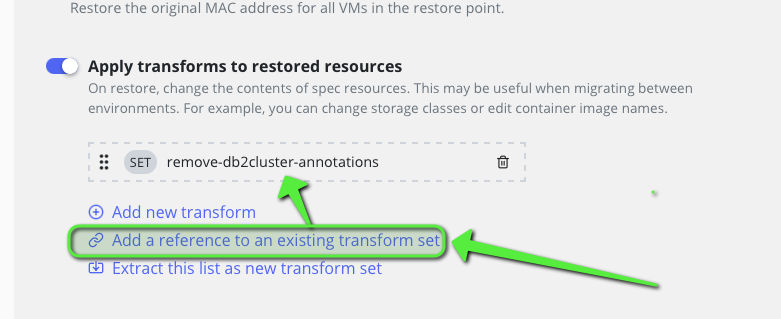
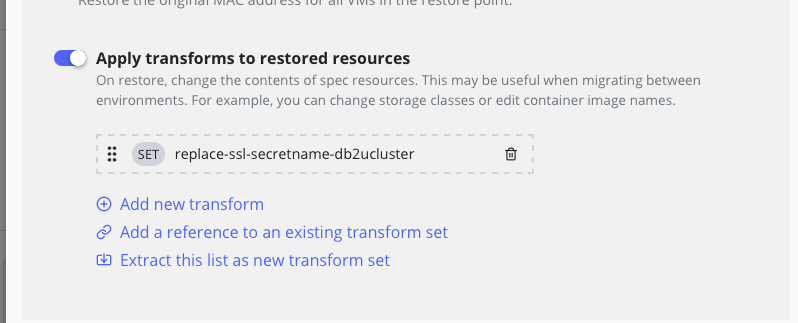
replace the ssl secret for db2ucluster

diff --git a/maximo/manage/db2u/readme.md b/maximo/manage/db2u/readme.md
@@ -82,9 +82,8 @@ While this process work a simpler approach can be taken :
 
 ## With the kasten UI 
 
-1. review edit and apply the transformset `replace-ssl-secretname-db2ucluster.yaml`. 
-You need to provide the name of the secret that will be used to build certificate used by the manage clients.
-It's a secret with 3 entry : ca.crt, tls.key, tls.pem.
+1. review edit and create the transformset `replace-ssl-secretname-db2ucluster.yaml`. 
+You need to provide the name of the secret that will be used to build certificate used by the manage clients. It's a secret with 3 entries : ca.crt, tls.crt, tls.key.
 
 ```
 oc create -f replace-ssl-secretname-db2ucluster.yaml
